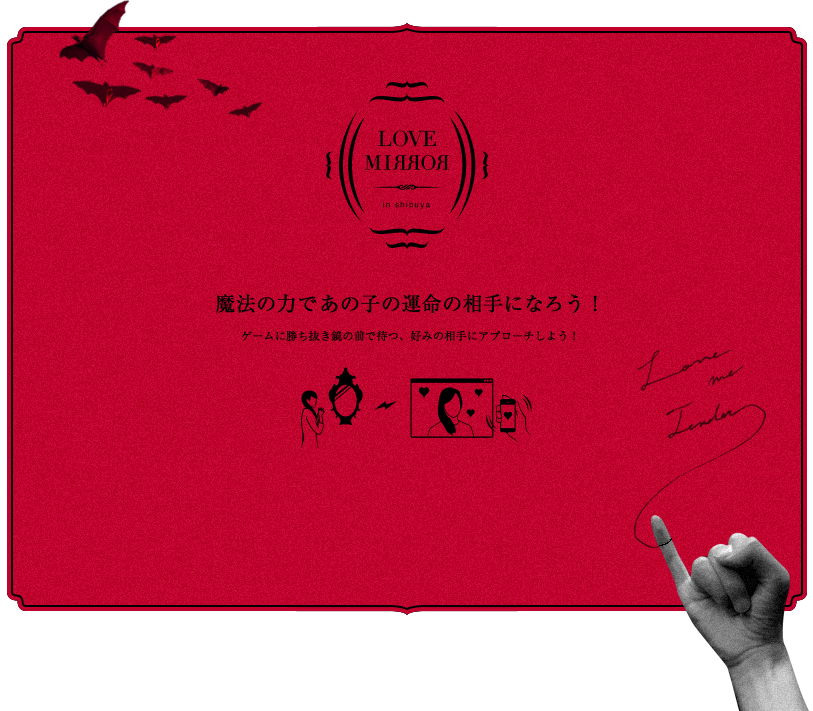
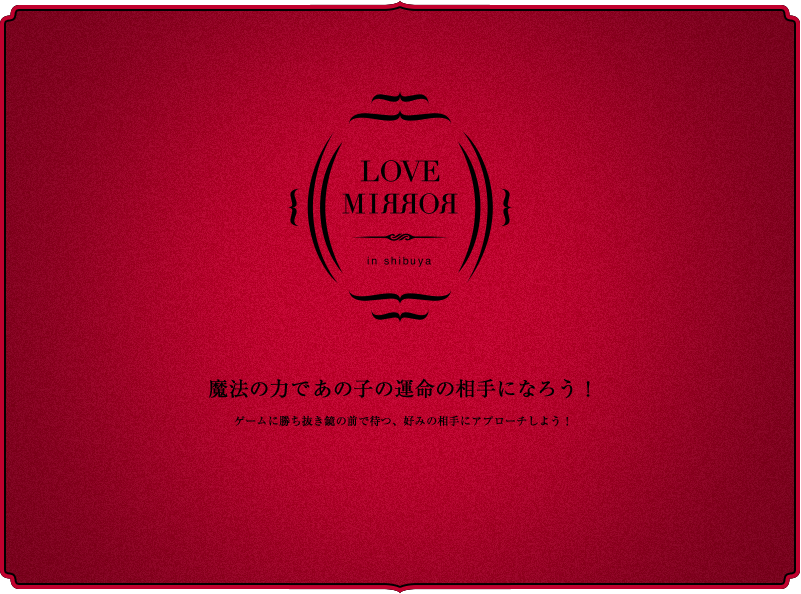
Change intro panell design

diff --git a/public/html/index.html b/public/html/index.html
@@ -98,11 +98,11 @@
     <div class="overlayShadow"></div>
     <div id="mainVideo">
       <object class="mainVideo" width="100%" height="800px" classid="clsid:d27cdb6e-ae6d-11cf-96b8-444553540000">
-        <param name="flashvars" value="cid=10037200&autoplay=true&volume=0"/>
+        <param name="flashvars" value="cid=10874166&autoplay=true&volume=0"/>
         <param name="allowfullscreen" value="true"/>
         <param name="allowscriptaccess" value="always"/>
         <param name="src" value="http://www.ustream.tv/flash/viewer.swf"/>
-        <embed flashvars="cid=10037200&autoplay=true&volume=0" width="100%" height="800px" allowfullscreen="true" allowscriptaccess="always" src="http://www.ustream.tv/flash/viewer.swf" type="application/x-shockwave-flash"></embed>
+        <embed flashvars="cid=10874166&autoplay=true&volume=0" width="100%" height="800px" allowfullscreen="true" allowscriptaccess="always" src="http://www.ustream.tv/flash/viewer.swf" type="application/x-shockwave-flash"></embed>
       </object>
     </div><!-- /mainVideo -->
   </div><!-- /videoLayerWrapper -->

diff --git a/public/resources/css/style.css b/public/resources/css/style.css
@@ -29,16 +29,16 @@ body {
 
 #introContentsWrapper .introPannel {
   margin: auto;
-  padding-top: 10px;
-  width: 813px;
-  height: 711px;
-  background: url('/resources/images/intro_pannel.png') center bottom no-repeat;
+  padding-top: 100px;
+  width: 801px;
+  height: 594px;
+  background: url('/resources/images/intro_pannel.png') center center no-repeat;
 }
 
 #introContentsWrapper .startButton {
   position: relative;
   text-align: center;
-  top: 490px;
+  top: 420px;
   cursor:pointer;
 }
 
